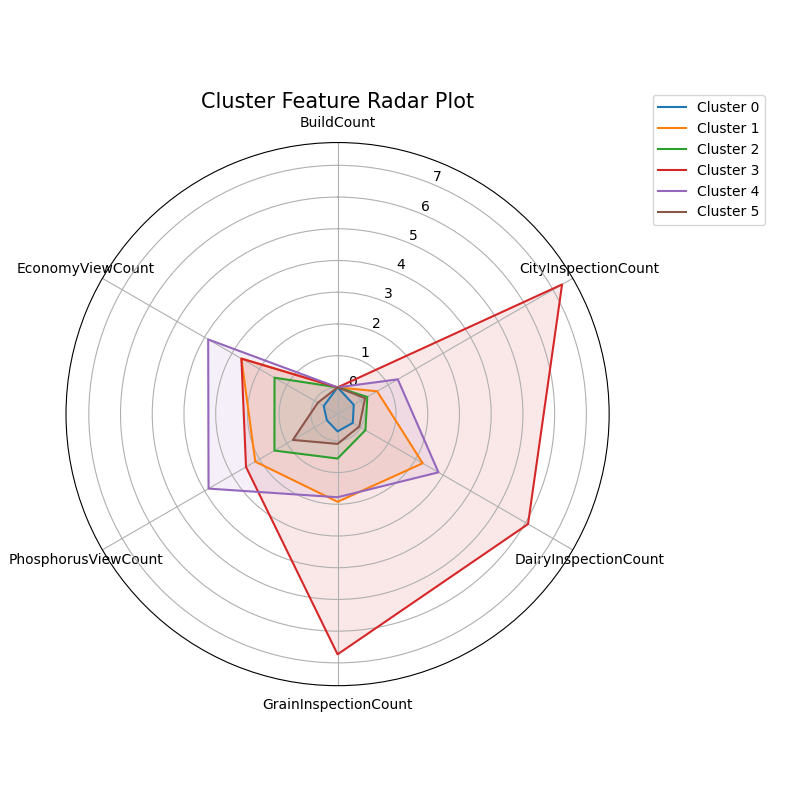
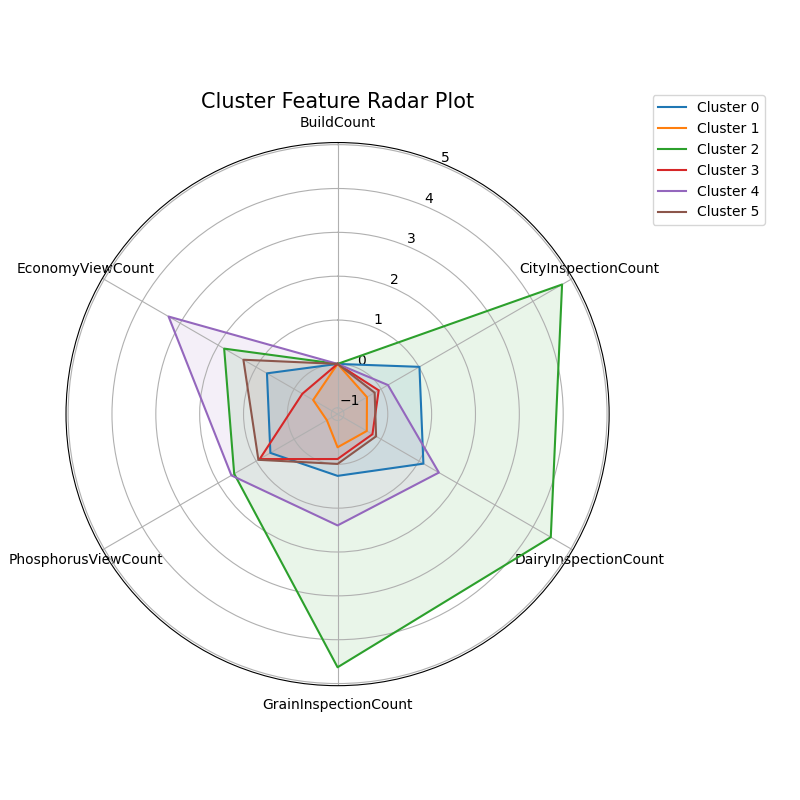
player level model

diff --git a/src/ogd/games/LAKELAND/models/KMeansModel.py b/src/ogd/games/LAKELAND/models/KMeansModel.py
@@ -495,7 +495,7 @@ class KMeansModel(PopulationModel):
         ]
 
     def _updateFromFeatureData(self, feature: FeatureData):
-        if feature.ExportMode == ExtractionMode.SESSION:
+        if feature.ExportMode == self.ExtractionMode:
             try:
                 value_as_string = str(feature.FeatureValues[0])
                 numeric_value = int(value_as_string.split()[-1])
@@ -503,35 +503,49 @@ class KMeansModel(PopulationModel):
                 numeric_value = 0
 
             if feature.Name == "BuildCount":
-                # print("  -> NAME CHECK: PASSED. Appending to _build_count.")
+                print("  -> NAME CHECK: PASSED. Appending to _build_count.")
                 self._build_count.append(numeric_value)
                 # print(self._build_count)
                 # self._build_count.append(numeric_value)
             elif feature.Name == "CityInspectionCount":
-                # print("  -> NAME CHECK: PASSED. Appending to _city_inspection_count.")
+                print("  -> NAME CHECK: PASSED. Appending to _city_inspection_count.")
                 # print(self._city_inspection_count)
                 self._city_inspection_count.append(numeric_value)
             elif feature.Name == "DairyInspectionCount":
                 self._dairy_inspection_count.append(numeric_value)
-                # print("  -> NAME CHECK: PASSED. Appending to _dairy_inspection_count.")
+                print("  -> NAME CHECK: PASSED. Appending to _dairy_inspection_count.")
                 # print(self._dairy_inspection_count)
             elif feature.Name == "GrainInspectionCount":
                 self._grain_inspection_count.append(numeric_value)
-                # print("  -> NAME CHECK: PASSED. Appending to _grain_inspection_count.")
+                print("  -> NAME CHECK: PASSED. Appending to _grain_inspection_count.")
                 # print(self._grain_inspection_count)
             # elif feature.Name == "PhosphorusViewCount":
             elif feature.Name == "AveragePhosphorusViewTime":
-                self._phosphorus_view_count.append(numeric_value)
-                # print("  -> NAME CHECK: PASSED. Appending to _phosphorus_view_count.")
+                self._phosphorus_view_count.append(feature.FeatureValues[0] if feature.FeatureValues[0] else 0)
+                print("  -> NAME CHECK: PASSED. Appending to _phosphorus_view_count.")
             # elif feature.Name == "EconomyViewCount":
             elif feature.Name == "AverageEconomyViewTime":
-                # print("  -> NAME CHECK: PASSED. Appending to _economy_view_count.")
-                self._economy_view_count.append(numeric_value)
+                print("  -> NAME CHECK: PASSED. Appending to _economy_view_count.")
+                self._economy_view_count.append(feature.FeatureValues[0] if feature.FeatureValues[0] else 0)
 
     def _updateFromEvent(self, event):
         pass
 
     def _train(self):
+
+        data_dict = {
+            'BuildCount': self._build_count,
+            'CityInspectionCount': self._city_inspection_count,
+            'DairyInspectionCount': self._dairy_inspection_count,
+            'GrainInspectionCount': self._grain_inspection_count,
+            'PhosphorusViewCount': self._phosphorus_view_count,
+            'EconomyViewCount': self._economy_view_count,
+        }
+
+
+        print(data_dict)
+
+
         print("--- KMEANSMODEL: INSPECTING DATA AT START OF _train ---")
         print(f"Total entries for BuildCount: {len(self._build_count)}")
 

diff --git a/src/ogd/core/managers/ExportManager.py b/src/ogd/core/managers/ExportManager.py
@@ -173,22 +173,27 @@ class ExportManager:
                 time_delta = datetime.now() - start
                 Logger.Log(f"Processing time for slice [{i+1}/{len(slices)}]: {time_delta} to handle {len(_next_slice_data)} events", logging.INFO, depth=2)
 
-                if self._model_mgr:
-                    self._sess_feats = self._feat_mgr.GetSessionFeatureData()
-                    # print(f"ExportManager passing {len(self._sess_feats)} features to ModelManager for processing...")
-                    # print(self._sess_feats)
-                    self._model_mgr.ProcessFeatureData(self._sess_feats)
+                # if self._model_mgr:
+                #     self._sess_feats = self._feat_mgr.GetSessionFeatureData()
+                #     # print(f"ExportManager passing {len(self._sess_feats)} features to ModelManager for processing...")
+                #     # print(self._sess_feats)
+                #     self._model_mgr.ProcessFeatureData(self._sess_feats)
 
 
                 if self._feat_mgr and self._model_mgr:
                     self._player_feature_data = self._feat_mgr.GetPlayerFeatureData()
+                    print(f"ExportManager passing {len(self._player_feature_data)} player features to ModelManager for processing...")
+                    print(self._player_feature_data)
+                    self._model_mgr.ProcessFeatureData(self._player_feature_data)
 
-                self.player_features_by_id = {}
-                for fd in self._player_feature_data:
-                    player_id = getattr(fd, 'PlayerID', None) or getattr(fd, 'player_id', None)
-                    if player_id is None:
-                        continue
-                    self.player_features_by_id.setdefault(player_id, []).append(fd)
+                # self.player_features_by_id = {}
+                # for fd in self._player_feature_data:
+                #     player_id = getattr(fd, 'PlayerID', None) or getattr(fd, 'player_id', None)
+                #     if player_id is None:
+                #         continue
+                #     self.player_features_by_id.setdefault(player_id, []).append(fd)
+
+                # print(self.player_features_by_id)
 
             # 2. Write out the session data and reset for next slice.
                 start = datetime.now()
@@ -253,17 +258,17 @@ class ExportManager:
             # print("type of all_feature_data", type(self._sess_feats))
             # print(self._sess_feats)
 
-            Logger.Log(f"Passing {len(self._sess_feats)} features to the Model Manager...", logging.INFO, depth=2)
+            # Logger.Log(f"Passing {len(self._sess_feats)} features to the Model Manager...", logging.INFO, depth=2)
             # self._model_mgr.ProcessFeatureData(self._sess_feats) 
             
             Logger.Log("Training models...", logging.INFO, depth=2)
             self._model_mgr.TrainModels()
 
             
-            output = self._model_mgr.apply_model_to_players(self.player_features_by_id)
+            # output = self._model_mgr.apply_model_to_players(self.player_features_by_id)
 
-            print("Model output:")
-            print(output)
+            # print("Model output:")
+            # print(output)
 
             # 4. Get the model outputs.
             Logger.Log("Retrieving model outputs...", logging.INFO, depth=2)

diff --git a/src/ogd/core/managers/FeatureManager.py b/src/ogd/core/managers/FeatureManager.py
@@ -158,10 +158,11 @@ class FeatureManager:
         return population_data
     
     def GetPlayerFeatureData(self) -> List[FeatureData]:
+        self._try_update(as_str=False)
         player_data = []
         if self._players is not None:
             for player in self._players.values():
-                player_data += player.GetFeatureData(order=1)
+                player_data += player.GetFeatureData(order=1) + player.GetFeatureData(order=2)
         return player_data
     
     def GetSessionFeatureData(self) -> List[FeatureData]:

diff --git a/src/ogd/core/processors/ModelProcessor.py b/src/ogd/core/processors/ModelProcessor.py
@@ -138,7 +138,7 @@ class ModelProcessor(ExtractorProcessor):
         return ExtractionMode.POPULATION
 
     def _createRegistry(self) -> ModelRegistry:
-        return ModelRegistry(mode=self._mode)
+        return ModelRegistry(mode=ExtractionMode.PLAYER)
     
     def _getGeneratorNames(self) -> List[str]:
         return self._registry._getGeneratorNames() if self._registry else []
